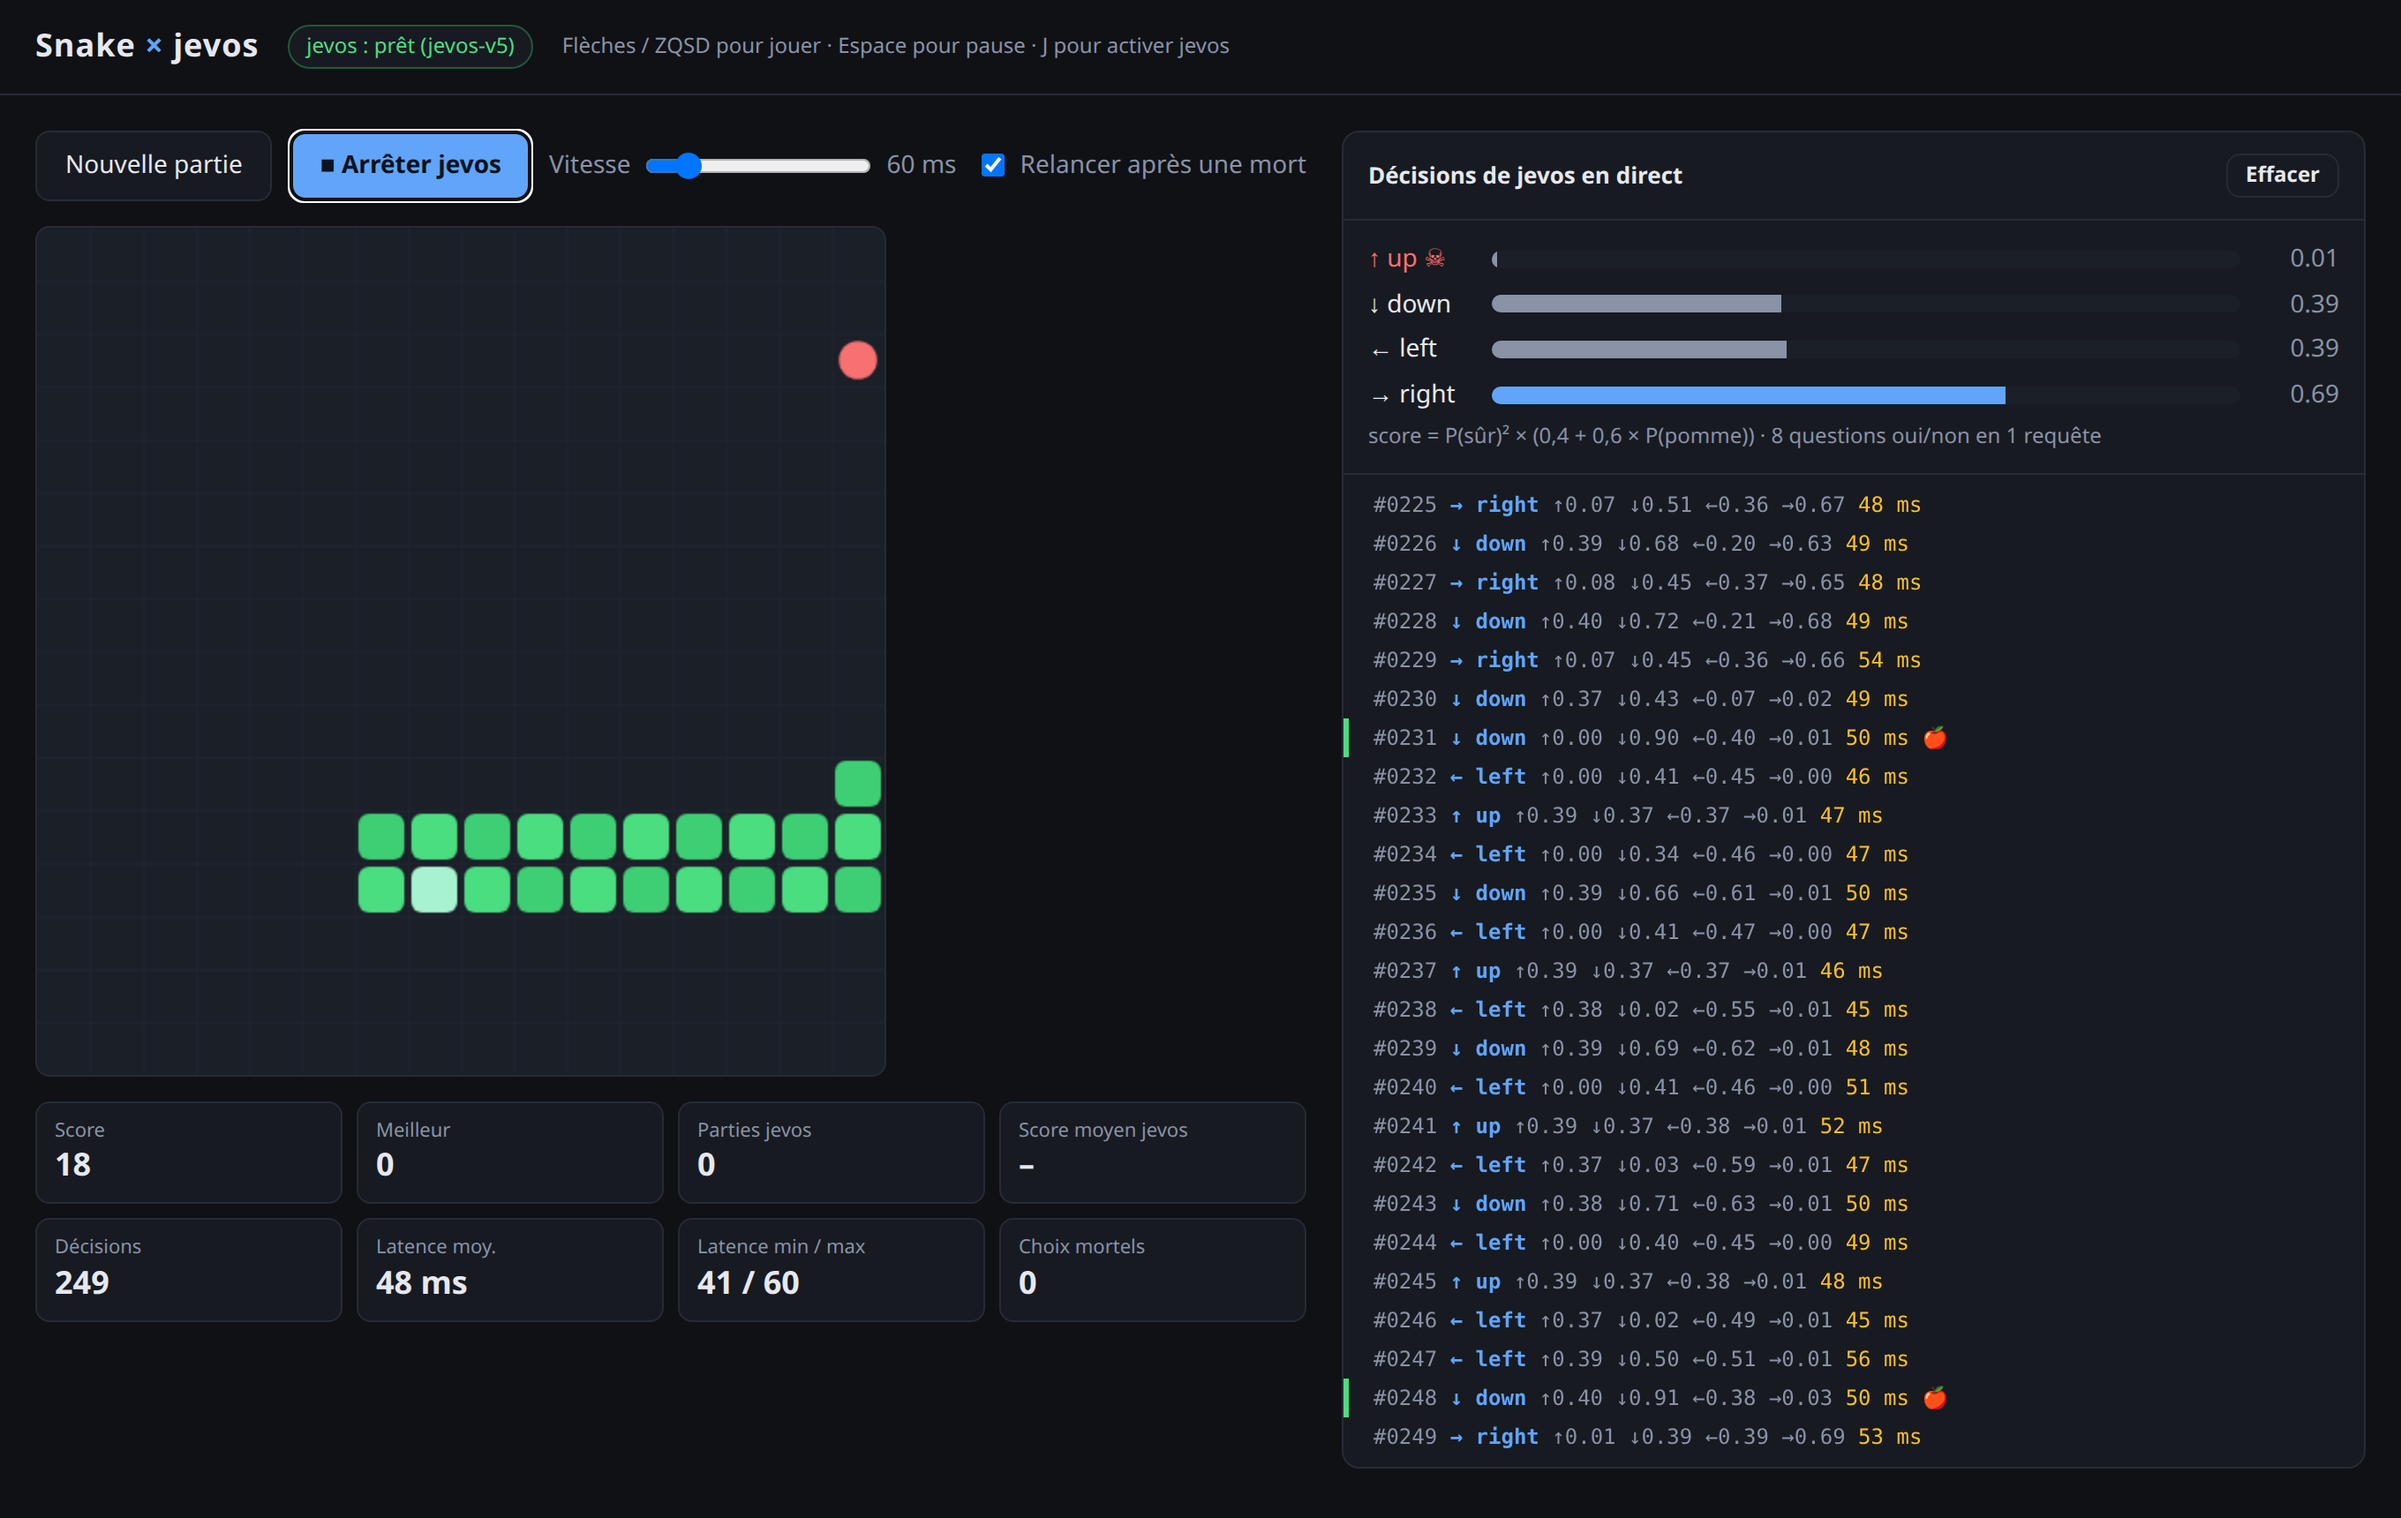
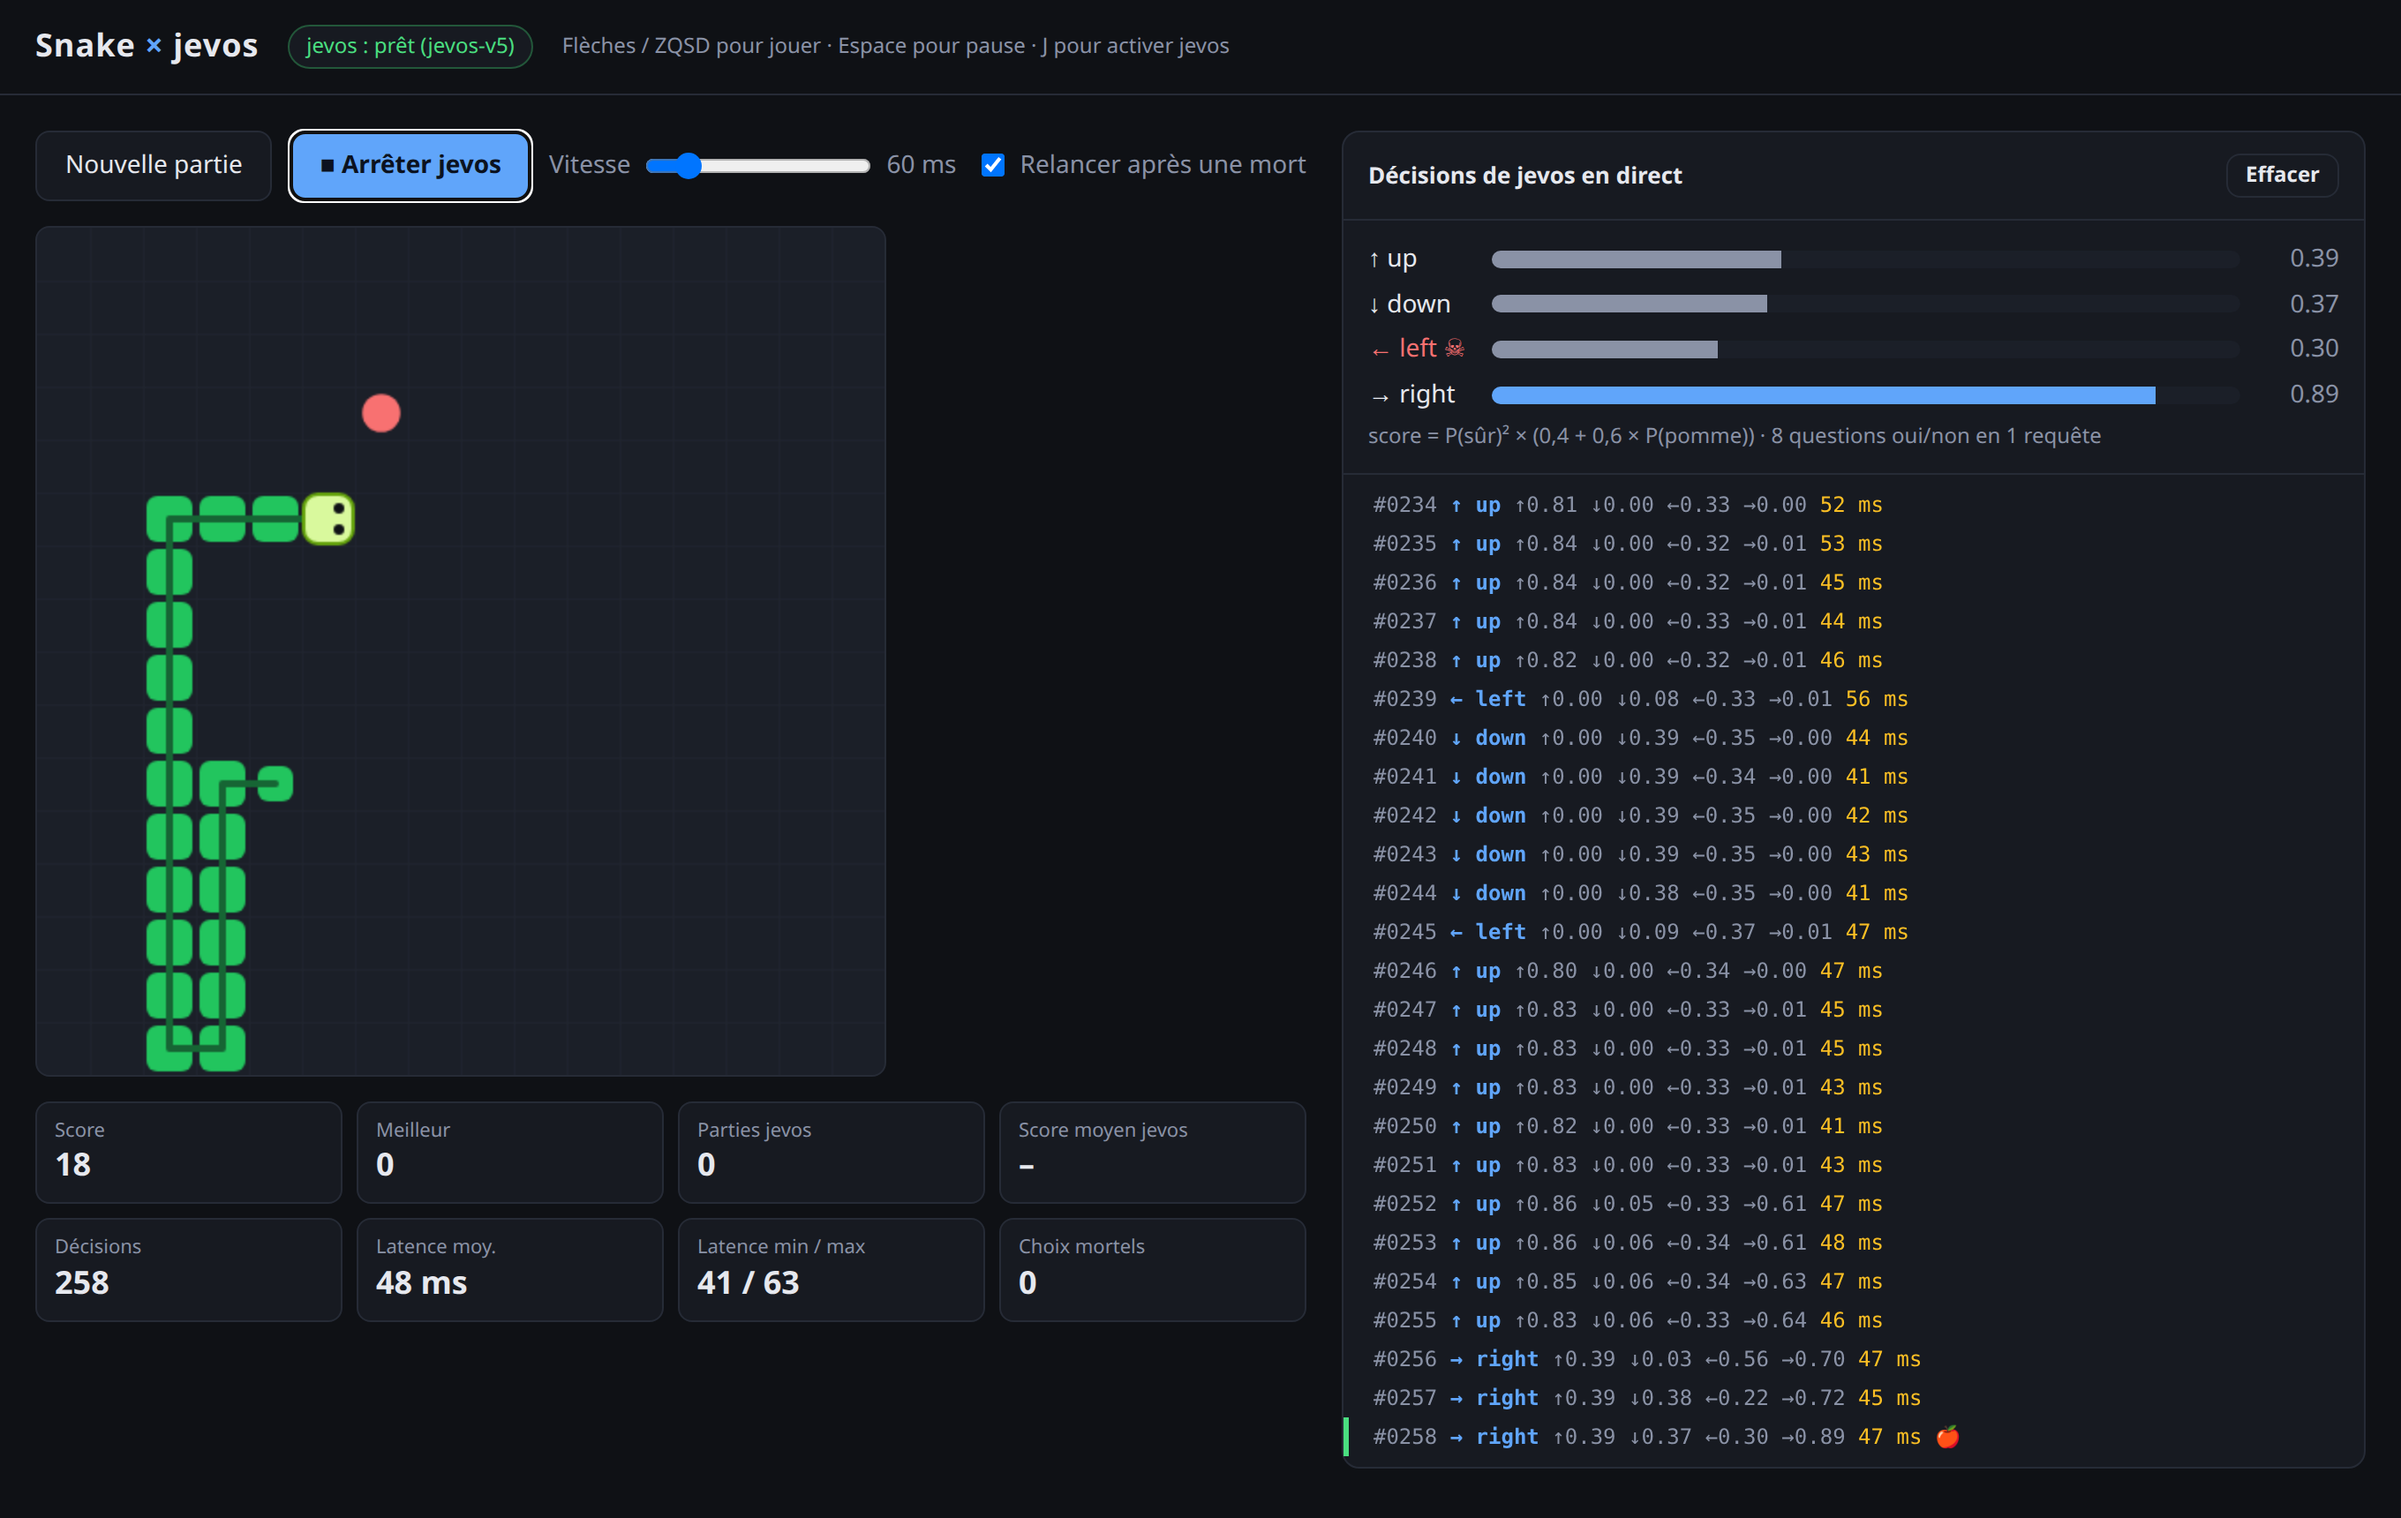
Dessin du serpent : tête avec yeux orientés, trait le long du corps

diff --git a/web/index.html b/web/index.html
@@ -154,11 +154,30 @@ function draw() {
   }
   ctx.fillStyle = "#f87171";
   ctx.beginPath(); ctx.arc(g.apple[0] * CELL + CELL / 2, g.apple[1] * CELL + CELL / 2, CELL * .36, 0, 7); ctx.fill();
-  g.snake.forEach(([x, y], i) => {
-    ctx.fillStyle = i === 0 ? "#a7f3d0" : (i % 2 ? "#4ade80" : "#3ecf74");
-    if (!g.alive && i === 0) ctx.fillStyle = "#f87171";
-    ctx.beginPath(); ctx.roundRect(x * CELL + 2, y * CELL + 2, CELL - 4, CELL - 4, 6); ctx.fill();
-  });
+  const c = v => v * CELL + CELL / 2;   // centre d'une case
+  const last = g.snake.length - 1;
+  // corps (de la queue vers le cou) : carrés verts, la queue un peu plus petite
+  for (let i = last; i >= 1; i--) {
+    const [x, y] = g.snake[i], pad = i === last ? 5 : 2;
+    ctx.fillStyle = "#22c55e";
+    ctx.beginPath(); ctx.roundRect(x * CELL + pad, y * CELL + pad, CELL - 2 * pad, CELL - 2 * pad, 6); ctx.fill();
+  }
+  // trait le long du corps : relie chaque segment à ses voisins, montre le sens
+  ctx.strokeStyle = "#166534"; ctx.lineWidth = 4; ctx.lineCap = "round"; ctx.lineJoin = "round";
+  ctx.beginPath();
+  ctx.moveTo(c(g.snake[last][0]), c(g.snake[last][1]));
+  for (let i = last - 1; i >= 0; i--) ctx.lineTo(c(g.snake[i][0]), c(g.snake[i][1]));
+  ctx.stroke();
+  // tête : carré clair, bordure, deux yeux tournés vers la direction
+  const [hx, hy] = g.snake[0], [dx, dy] = DIRS[g.dir];
+  ctx.fillStyle = g.alive ? "#d9f99d" : "#f87171";
+  ctx.strokeStyle = g.alive ? "#65a30d" : "#991b1b"; ctx.lineWidth = 2;
+  ctx.beginPath(); ctx.roundRect(hx * CELL + 1, hy * CELL + 1, CELL - 2, CELL - 2, 8); ctx.fill(); ctx.stroke();
+  ctx.fillStyle = "#0f1115";
+  for (const s of [-1, 1]) {
+    const ex = c(hx) + dx * 6 + dy * s * 6, ey = c(hy) + dy * 6 + dx * s * 6;
+    ctx.beginPath(); ctx.arc(ex, ey, 3, 0, 7); ctx.fill();
+  }
 }
 
 function updateStats() {
